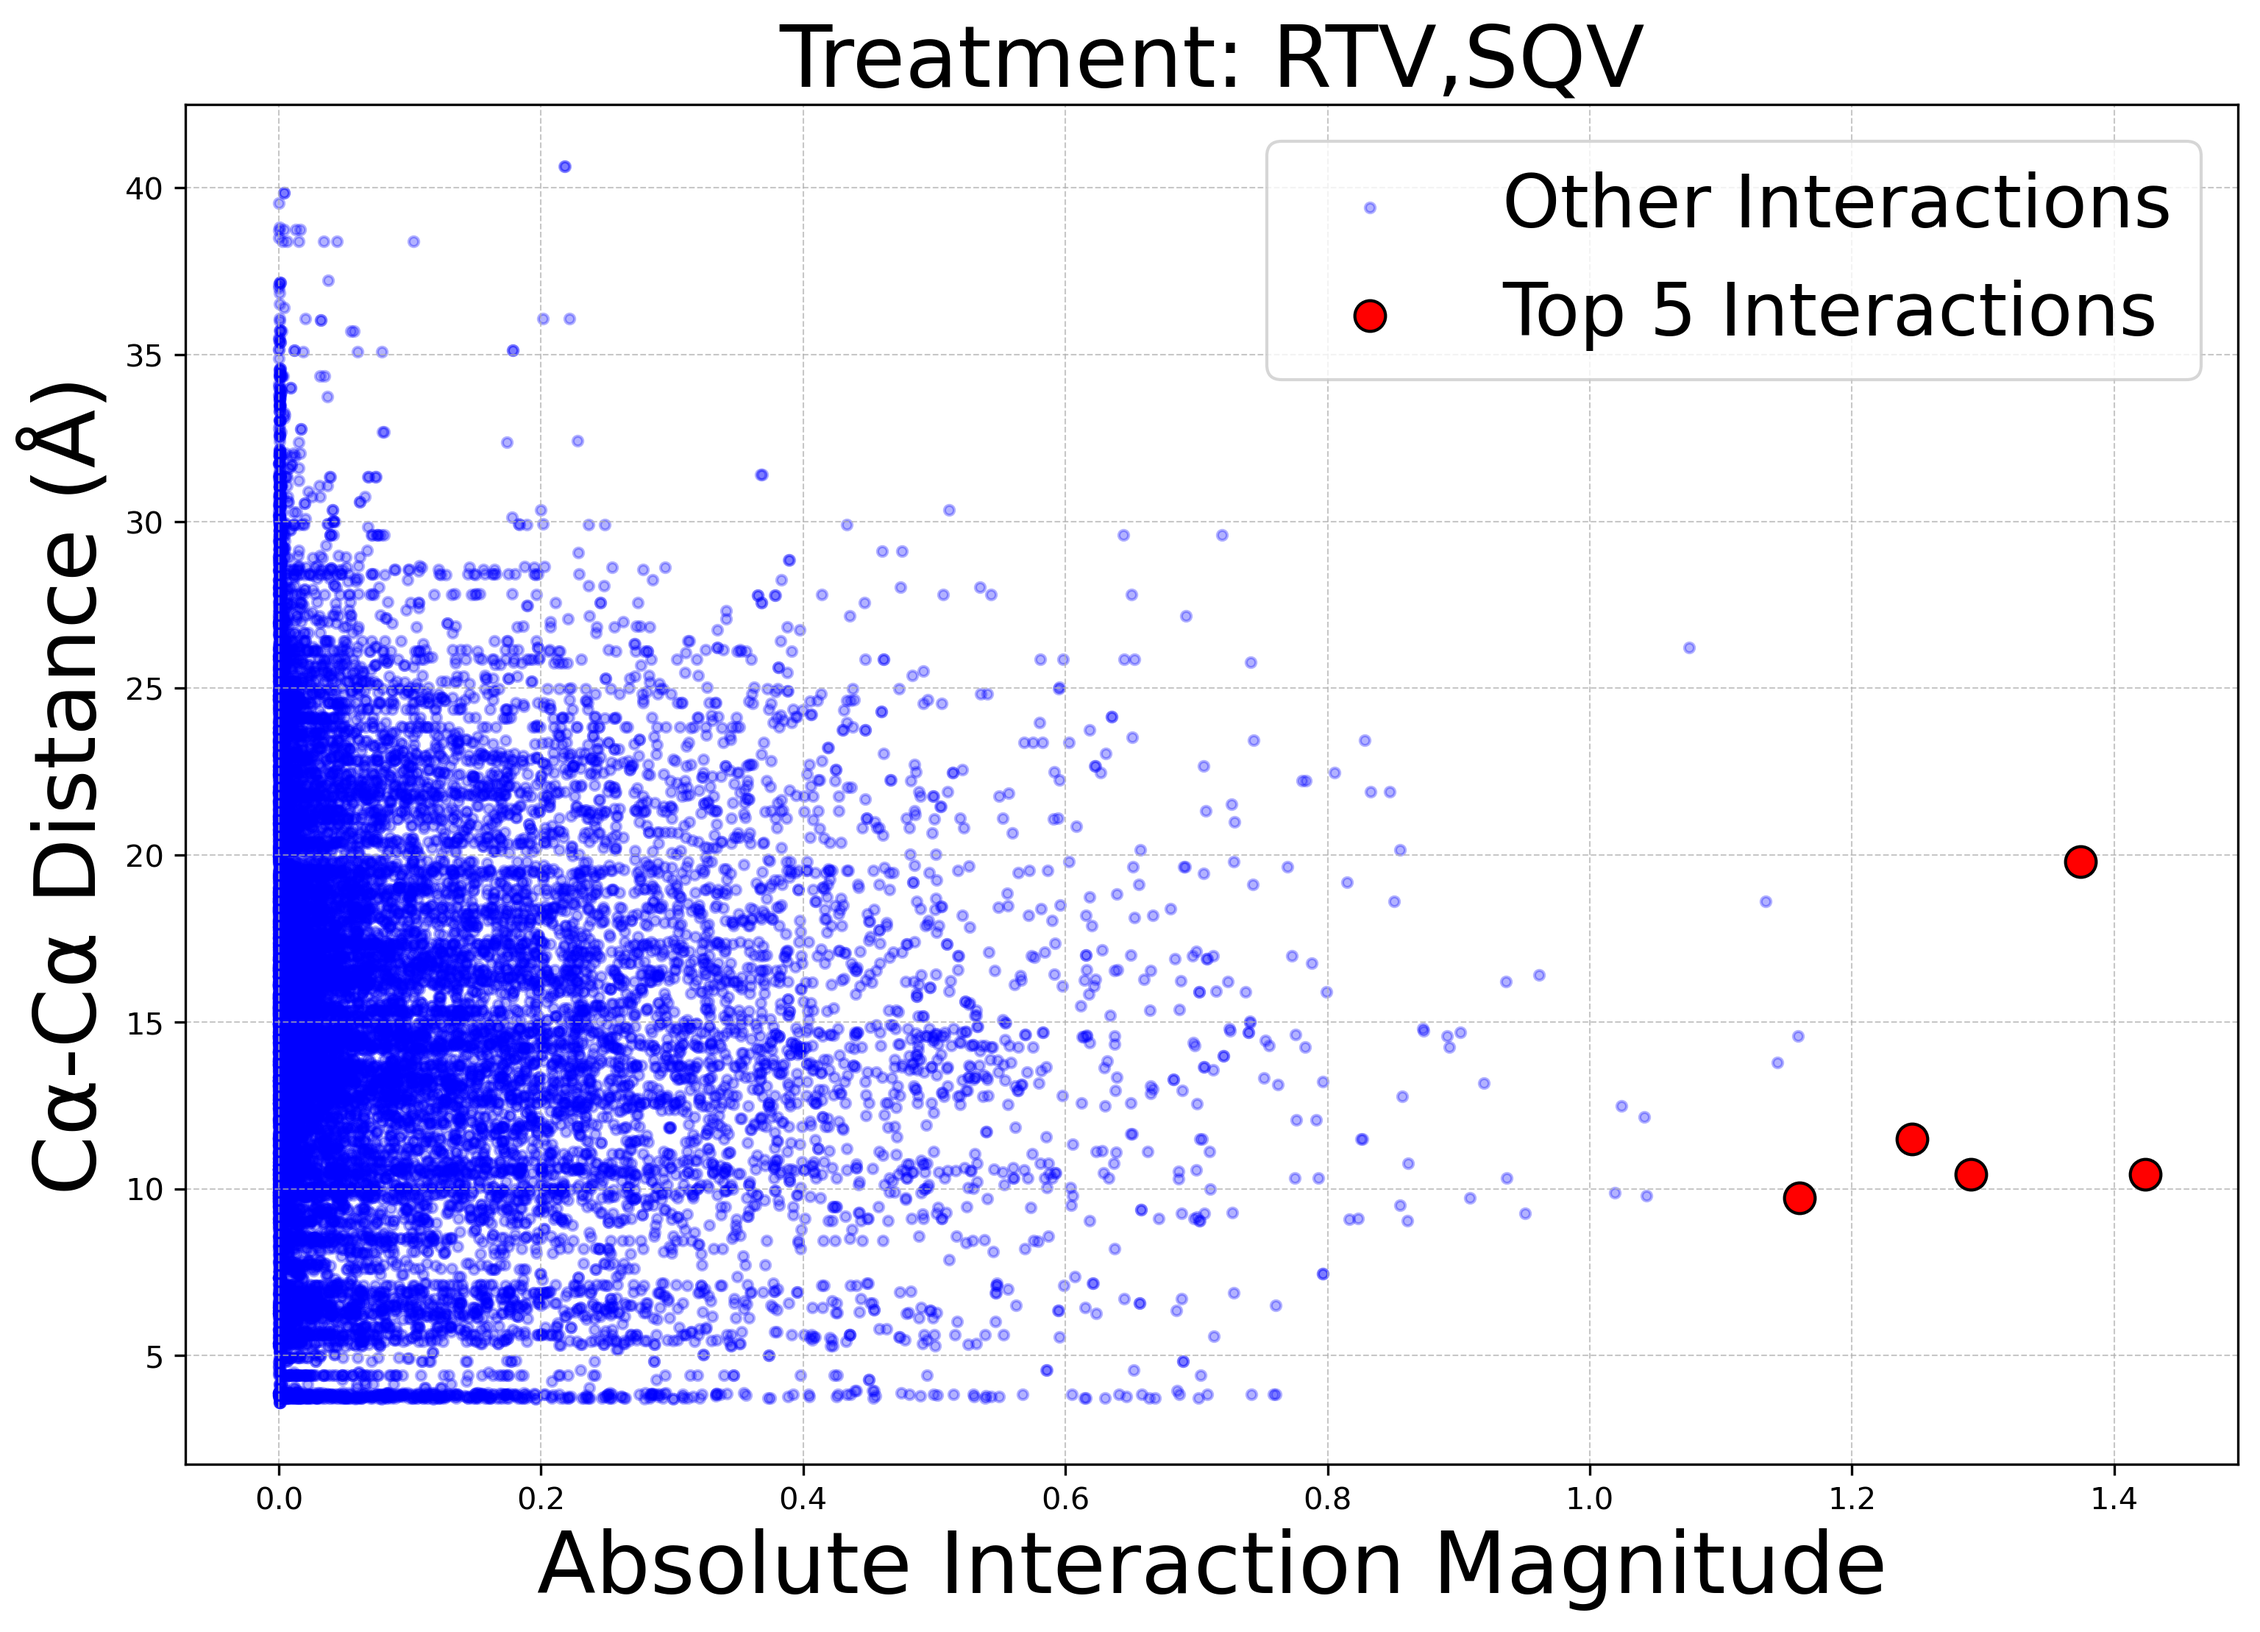
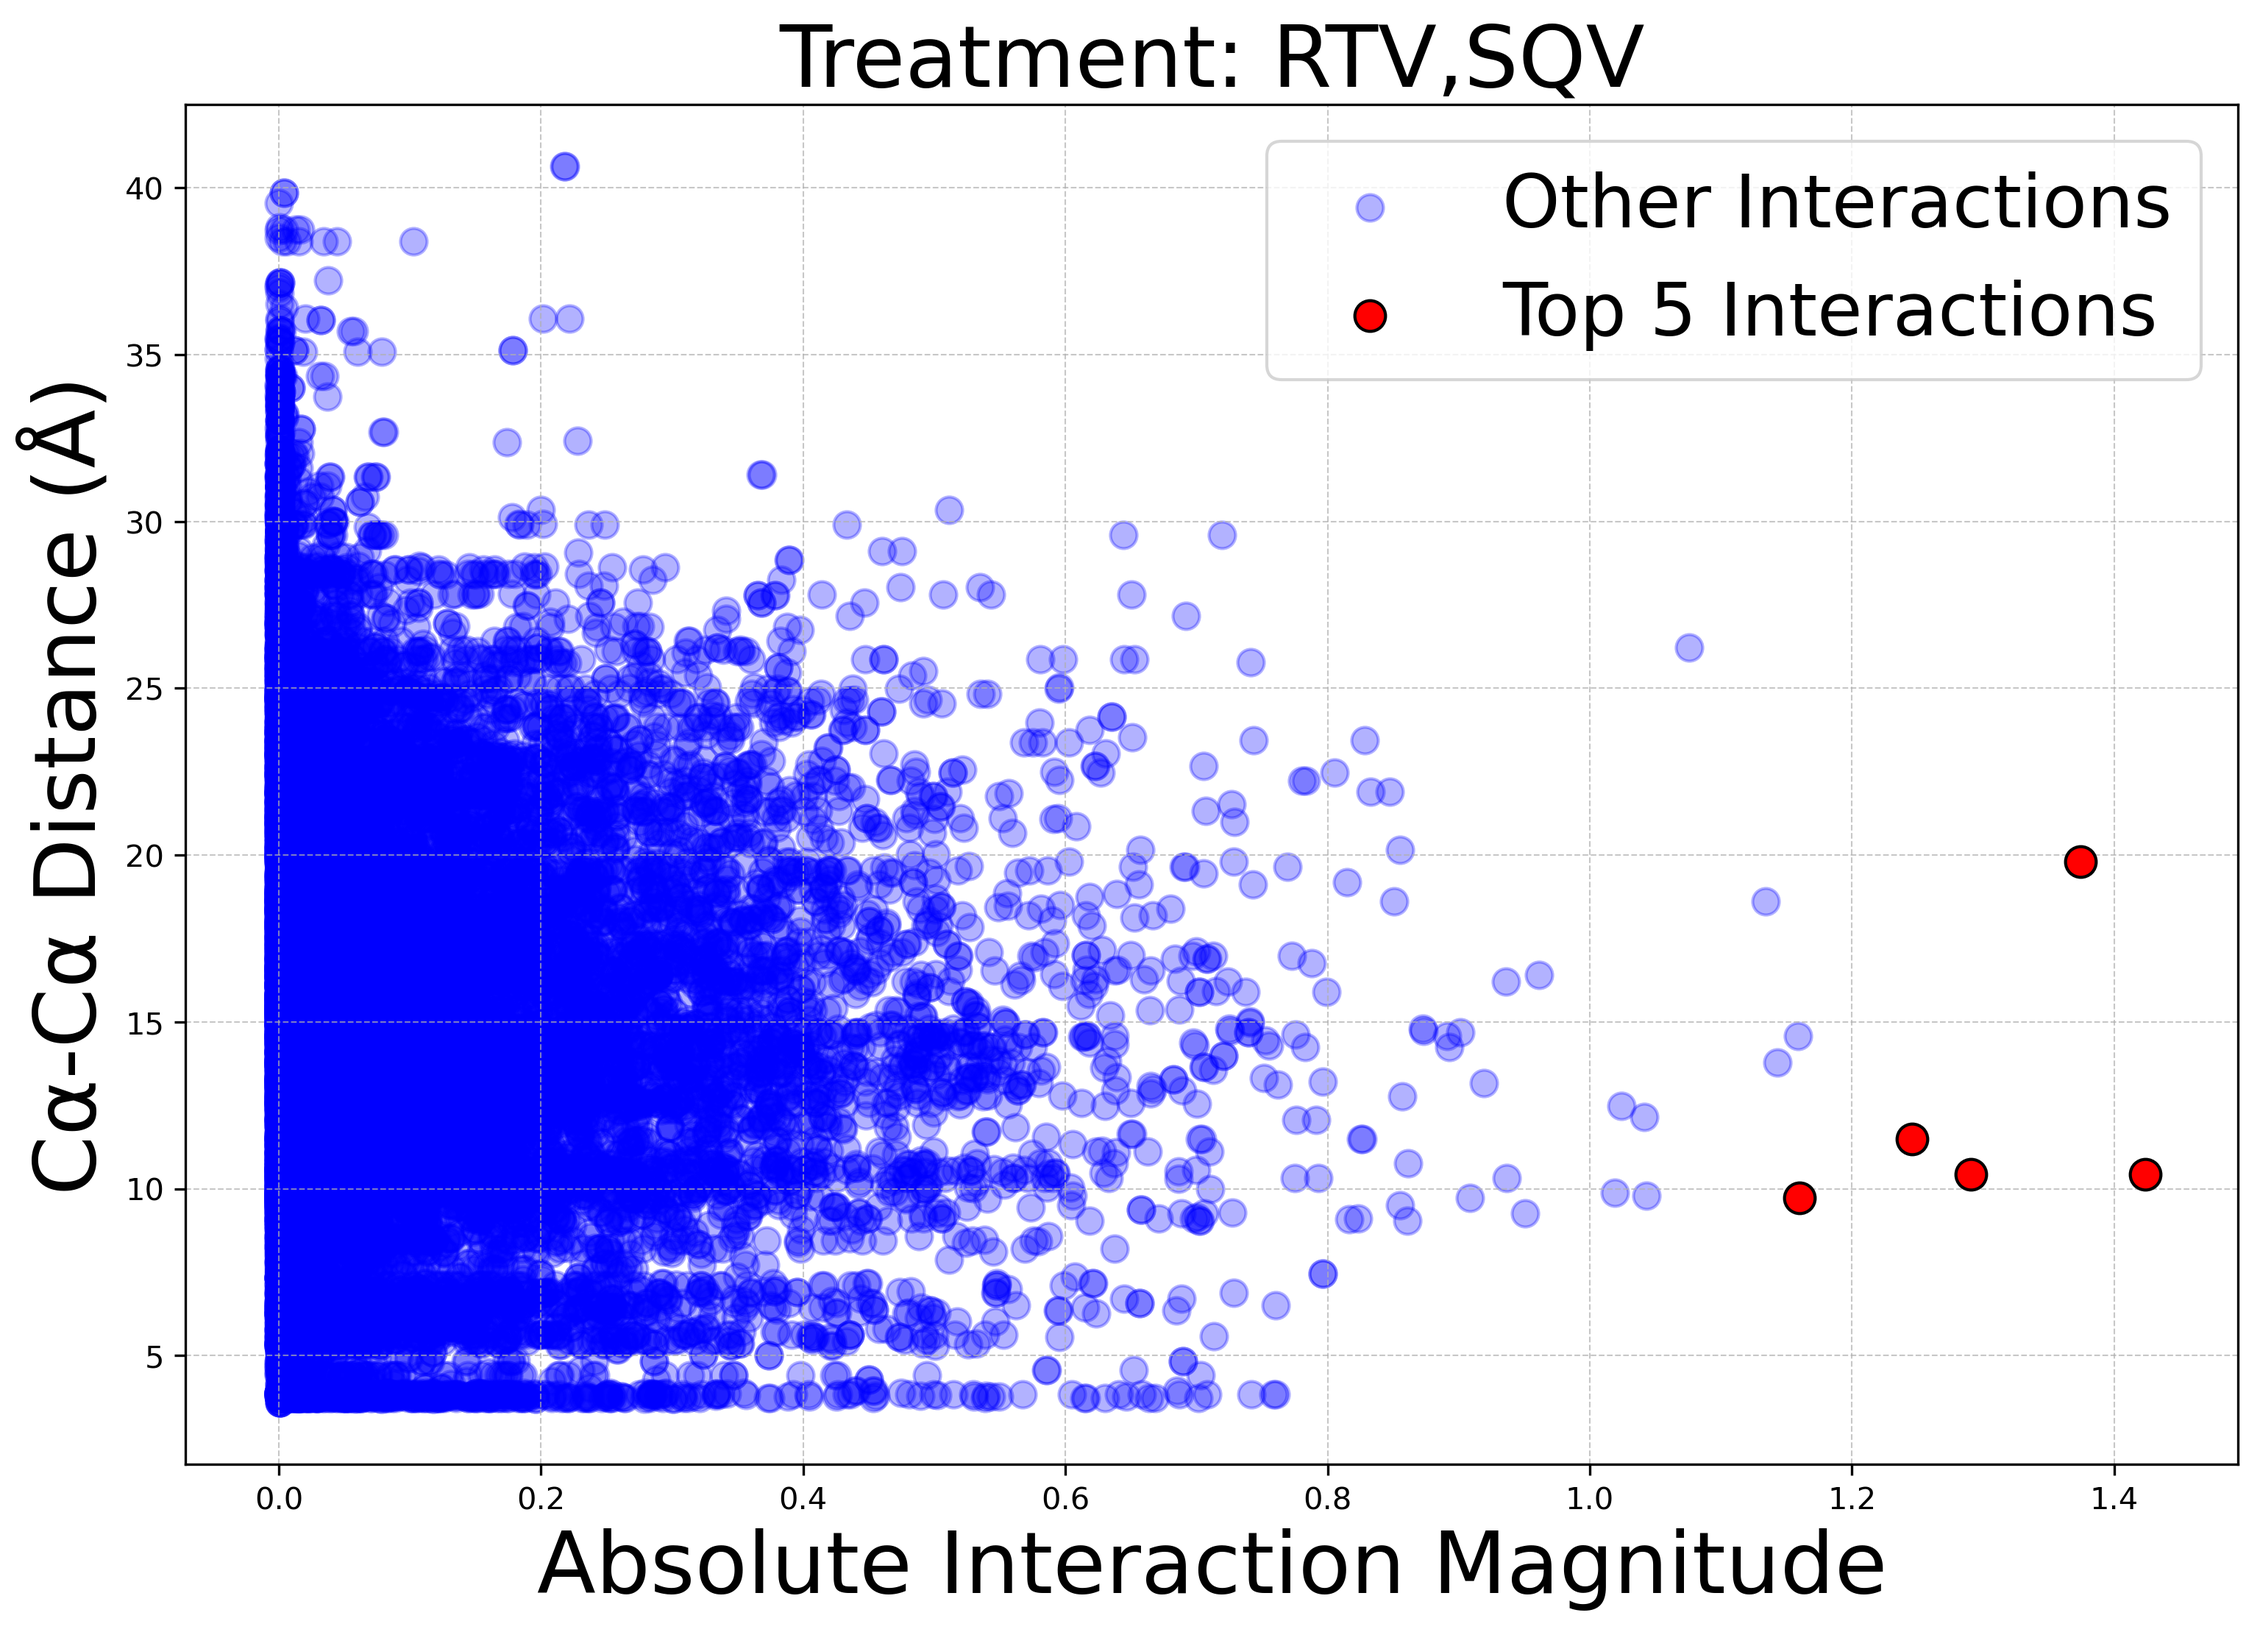
updated fig1

diff --git a/plots_and_tables/Figure1/analyze_interactions.py b/plots_and_tables/Figure1/analyze_interactions.py
@@ -209,7 +209,7 @@ def analyze_interactions(dist_matrix_file, model_dir, n_residues=99):
     # Increase font sizes for readability
     ax.set_title("Spatial Distance Distribution of Top 1% vs. Remaining 99% Interactions", fontsize=22, weight='bold')
     ax.set_xlabel(None) # MODIFICATION: Remove x-axis label
-    ax.set_ylabel("Cα-Cα Distance (Å)", fontsize=32) # Increased Y label font
+    ax.set_ylabel("Cα-Cα Distance (Å)", fontsize=36) # Increased Y label font
     
     # --- NEW: Create wrapped labels for X-axis ---
     formatted_labels = []
@@ -226,14 +226,14 @@ def analyze_interactions(dist_matrix_file, model_dir, n_residues=99):
         else:
             formatted_labels.append(name)
     
-    ax.set_xticklabels(formatted_labels, fontsize=30, ha='center')
+    ax.set_xticklabels(formatted_labels, fontsize=32, ha='center')
     # --- END NEW SECTION ---
 
     # Increase tick label size (Y-axis only now)
     ax.tick_params(axis='y', which='major', labelsize=24)
     
     # Increase legend size and set location
-    ax.legend(title="Interaction Group", fontsize=18, title_fontsize=20, loc='upper right', ncol=2) # MODIFICATION: Set location
+    ax.legend(title="Interaction Group", fontsize=26, title_fontsize=20, loc='upper right', ncol=2) # MODIFICATION: Set location
     
     # --- MODIFICATION: Add stars *and brackets* above the plots ---
     

diff --git a/plots_and_tables/Figure1/plot_scatter_interactions.py b/plots_and_tables/Figure1/plot_scatter_interactions.py
@@ -116,7 +116,7 @@ def plot_scatter_per_treatment(dist_matrix_file, model_dir, n_residues=99, n_top
             color='blue', 
             alpha=0.3, 
             label=f'Other Interactions',
-            s=10 # Smaller size for the background
+            s=75 # Smaller size for the background
         )
         
         # Plot the "top N" points
